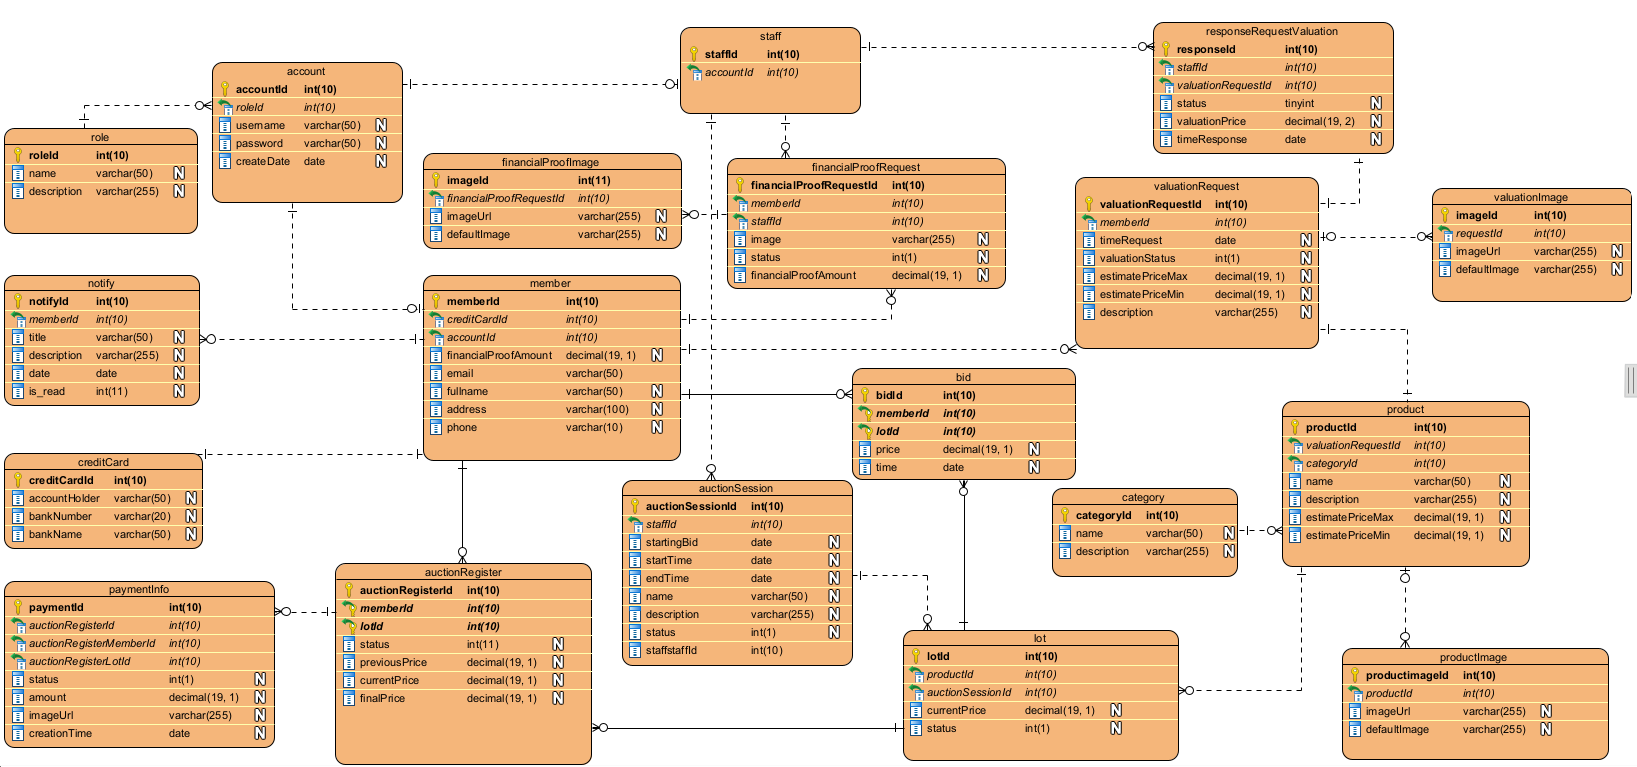
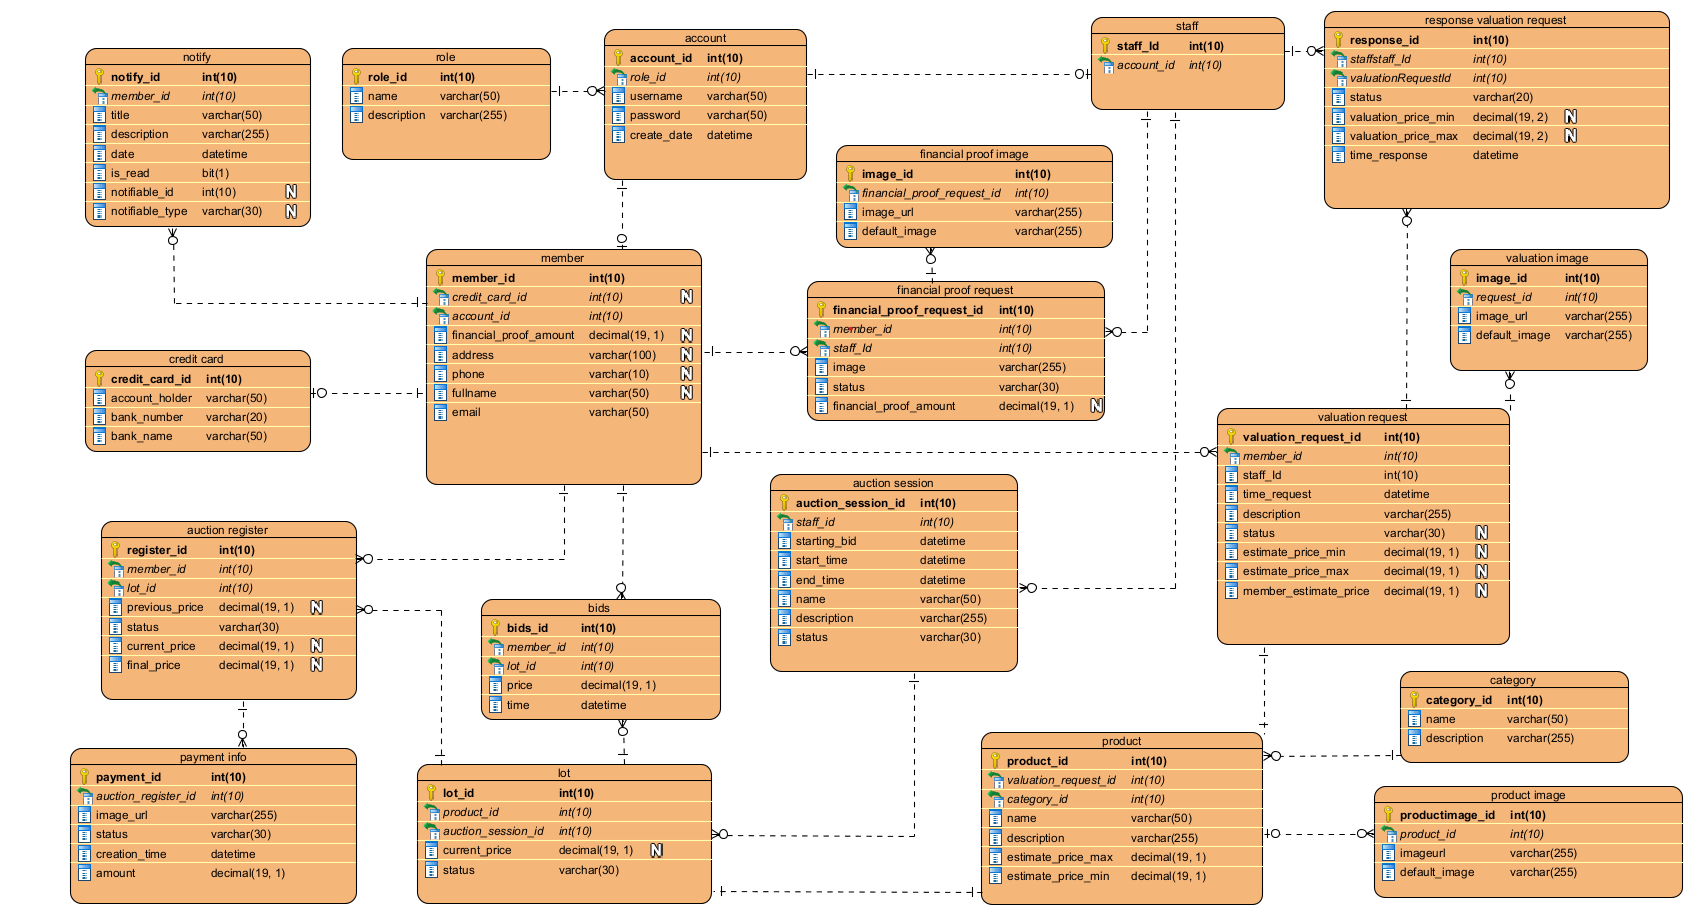
Update database, datetime to localdatetime

diff --git a/JewelryAuctionSystem/src/main/java/com/fpt/edu/service/ValuationRequestService.java b/JewelryAuctionSystem/src/main/java/com/fpt/edu/service/ValuationRequestService.java
@@ -6,19 +6,14 @@ import com.fpt.edu.repository.*;
 import com.fpt.edu.status.ValuationRequestStatus;
 import com.fpt.edu.mapper.ValuationRequestMapper;
 import com.fpt.edu.dto.ValuationRequestDTO;
-import com.fpt.edu.mapper.ResponseValuationRequestMapper;
 import com.fpt.edu.status.ResponseValuationRequestStatus;
 import lombok.RequiredArgsConstructor;
 import org.springframework.stereotype.Service;
 import org.springframework.web.multipart.MultipartFile;
 
 import java.math.BigDecimal;
-import java.time.LocalDate;
+import java.time.LocalDateTime;
 import java.util.*;
-import java.util.HashMap;
-import java.util.List;
-import java.util.Map;
-import java.util.Set;
 
 @Service
 @RequiredArgsConstructor
@@ -27,12 +22,12 @@ public class ValuationRequestService implements IValuationRequestService{
     private final IValuationRequestRepository iValuationRequestRepository;
     private final IMemberRepository iMemberRepository;
     private final IValuationImageRepository iValuationImageRepository;
-    private final IResponseRequestValuationRepository iResponseRequestValuationRepository;
+//    private final IResponseRequestValuationRepository iResponseRequestValuationRepository;
     private final IStaffRepository iStaffRepository;
     private final INotifyRepository iNotifyRepository;
 
     private final ValuationRequestMapper valuationRequestMapper;
-    private final ResponseValuationRequestMapper responseValuationRequestMapper;
+//    private final ResponseValuationRequestMapper responseValuationRequestMapper;
 
     private final CloudinaryService cloudinaryService;
     private final NotifyMapper NotifyMapper;
@@ -51,7 +46,7 @@ public class ValuationRequestService implements IValuationRequestService{
         System.out.println("Member: " + member);
         valuationRequest.setMember(member);
         valuationRequest.setDescription(description);
-        valuationRequest.setTimeRequest(LocalDate.now());
+        valuationRequest.setTimeRequest(LocalDateTime.now());
         valuationRequest.setEstimatePriceMin(estimateMin);
         valuationRequest.setEstimatePriceMax(estimateMax);
         valuationRequest.setValuationStatus(ValuationRequestStatus.REQUESTED);
@@ -101,7 +96,7 @@ public class ValuationRequestService implements IValuationRequestService{
         ValuationRequest valuationRequest = iValuationRequestRepository.getReferenceById(id);
         valuationRequest.setValuationStatus(ValuationRequestStatus.PRODUCT_RECEIVED);
         Member member = iMemberRepository.getReferenceById(valuationRequestMapper.mapToValuationRequestDTO(valuationRequest).getMemberId());
-        LocalDate createDate = LocalDate.now();
+        LocalDateTime createDate = LocalDateTime.now();
         iNotifyService.insertNotify(member, productReceivedTitle(valuationRequest), productReceivedMessage(valuationRequest));
         ValuationRequestDTO dto = valuationRequestMapper.mapToValuationRequestDTO(iValuationRequestRepository.save(valuationRequest));
         return dto;
@@ -287,7 +282,7 @@ public class ValuationRequestService implements IValuationRequestService{
         notify.setTitle(notifyFinalValuationDTO.getTitle());
         notify.setDescription(notifyFinalValuationDTO.getDescriptionOfProduct());
         notify.setMember(valuationRequest.getMember());
-        notify.setDate(LocalDate.now());
+        notify.setDate(LocalDateTime.now());
         iNotifyRepository.save(notify);
         Map<String, String> status = new HashMap<>();
         status.put("Status:", "Notify has been sent to member");

diff --git a/JewelryAuctionSystem/src/main/java/com/fpt/edu/mapper/ValuationRequestMapper.java b/JewelryAuctionSystem/src/main/java/com/fpt/edu/mapper/ValuationRequestMapper.java
@@ -78,21 +78,21 @@ public class ValuationRequestMapper {
     public List<ValuationRequestDetailDTO> mapToValuationRequestDetailDTOList(List<ValuationRequest> valuationRequests){
         return valuationRequests.stream().map(this::mapToValuationRequestDetailDTO).toList();
     }
-    // ham nay khong thay dung nay be Dai oi
-    public ValuationRequest mapToValuationRequest(ValuationRequestDTO valuationRequestDTO){
-        return new ValuationRequest(
-                valuationRequestDTO.getId(),
-                iMemberRepository.getReferenceById(valuationRequestDTO.getMemberId()),
-                valuationRequestDTO.getTimeRequest(),
-                valuationRequestDTO.getValuationStatus(),
-                valuationRequestDTO.getEstimatePriceMax(),
-                valuationRequestDTO.getEstimatePriceMin(),
-                valuationRequestDTO.getDescription(),
-                iProductRepository.getReferenceById(valuationRequestDTO.getProductId()),
-//                iResponseRequestValuationRepository.getReferenceById(valuationRequestDTO.getResponseRequestValuationsId()),
-                valuationImageMapper.mapIdToValuationImageList(valuationRequestDTO.getValuationImages())
-        );
-    }
+//    // ham nay khong thay dung nay be Dai oi
+//    public ValuationRequest mapToValuationRequest(ValuationRequestDTO valuationRequestDTO){
+//        return new ValuationRequest(
+//                valuationRequestDTO.getId(),
+//                iMemberRepository.getReferenceById(valuationRequestDTO.getMemberId()),
+//                valuationRequestDTO.getTimeRequest(),
+//                valuationRequestDTO.getValuationStatus(),
+//                valuationRequestDTO.getEstimatePriceMax(),
+//                valuationRequestDTO.getEstimatePriceMin(),
+//                valuationRequestDTO.getDescription(),
+//                iProductRepository.getReferenceById(valuationRequestDTO.getProductId()),
+////                iResponseRequestValuationRepository.getReferenceById(valuationRequestDTO.getResponseRequestValuationsId()),
+//                valuationImageMapper.mapIdToValuationImageList(valuationRequestDTO.getValuationImages())
+//        );
+//    }
 
 
     public List<ValuationRequestDTO> mapToValuationRequestDTOList(List<ValuationRequest> valuationRequests){

diff --git a/JewelryAuctionSystem/src/main/java/com/fpt/edu/controller/AuctionSessionController.java b/JewelryAuctionSystem/src/main/java/com/fpt/edu/controller/AuctionSessionController.java
@@ -10,6 +10,7 @@ import org.springframework.web.multipart.MultipartFile;
 
 import java.io.IOException;
 import java.time.LocalDate;
+import java.time.LocalDateTime;
 import java.util.List;
 
 @CrossOrigin("*")
@@ -23,9 +24,9 @@ public class AuctionSessionController {
     @PostMapping("/create-session")
     public ResponseEntity<AuctionSession> createAuctionSession(@RequestParam("name") String name,
                                                                @RequestParam("description") String description,
-                                                               @RequestParam("startTime") LocalDate startDate,
-                                                               @RequestParam("endTime") LocalDate endDate,
-                                                               @RequestParam("startingBid") LocalDate startingBid,
+                                                               @RequestParam("startTime") LocalDateTime startDate,
+                                                               @RequestParam("endTime") LocalDateTime endDate,
+                                                               @RequestParam("startingBid") LocalDateTime startingBid,
                                                                @RequestParam("staffId") int staffId,
                                                                @RequestParam("image") MultipartFile image) throws IOException {
     AuctionSession auction = auctionSessionService.createSession(name, description, startDate, endDate, startingBid, staffId, image);

diff --git a/JewelryAuctionSystem/src/main/java/com/fpt/edu/service/ResponseValuationRequestService.java b/JewelryAuctionSystem/src/main/java/com/fpt/edu/service/ResponseValuationRequestService.java
@@ -10,7 +10,6 @@ import com.fpt.edu.mapper.ResponseValuationRequestMapper;
 import com.fpt.edu.mapper.ValuationRequestMapper;
 import com.fpt.edu.repository.*;
 import com.fpt.edu.entity.*;
-import com.fpt.edu.mapper.ResponseValuationRequestMapper;
 import com.fpt.edu.repository.IResponseRequestValuationRepository;
 import com.fpt.edu.repository.IValuationRequestRepository;
 import com.fpt.edu.status.LotStatus;
@@ -20,11 +19,10 @@ import lombok.RequiredArgsConstructor;
 import org.springframework.stereotype.Service;
 
 import java.math.BigDecimal;
-import java.time.LocalDate;
+import java.time.LocalDateTime;
 import java.util.HashMap;
 import java.util.List;
 import java.util.Map;
-
 
 @Service
 @RequiredArgsConstructor
@@ -55,7 +53,7 @@ public class ResponseValuationRequestService implements IResponseRequestValuatio
         responseRequestValuation.setResponseValuationRequestStatus(status);
         responseRequestValuation.setStaff(staff);
         responseRequestValuation.setValuationRequest(valuationRequest);
-        responseRequestValuation.setTimeResponse(LocalDate.now());
+        responseRequestValuation.setTimeResponse(LocalDateTime.now());
         return responseValuationRequestMapper.toResponseValuationRequestDTO(iResponseRequestValuationRepository.save(responseRequestValuation));
     }
 

diff --git a/JewelryAuctionSystem/src/main/java/com/fpt/edu/entity/ValuationRequest.java b/JewelryAuctionSystem/src/main/java/com/fpt/edu/entity/ValuationRequest.java
@@ -5,7 +5,7 @@ import jakarta.persistence.*;
 import lombok.*;
 
 import java.math.BigDecimal;
-import java.time.LocalDate;
+import java.time.LocalDateTime;
 import java.util.LinkedHashSet;
 import java.util.Set;
 
@@ -26,17 +26,20 @@ public class ValuationRequest {
     private Member member;
 
     @Column(name = "time_request")
-    private LocalDate timeRequest;
+    private LocalDateTime timeRequest;
 
-    @Column(name = "valuation_status")
+    @Column(name = "status")
     @Enumerated(EnumType.STRING)
     private ValuationRequestStatus valuationStatus;
 
-    @Column(name = "estimate_price_max", precision = 19, scale = 1)
+    @Column(name = "estimate_price_max", precision = 19, scale = 1, nullable = true)
     private BigDecimal estimatePriceMax;
 
-    @Column(name = "estimate_price_min", precision = 19, scale = 1)
+    @Column(name = "estimate_price_min", precision = 19, scale = 1, nullable = true)
     private BigDecimal estimatePriceMin;
+
+    @Column(name = "member_estimate_price", precision = 19, scale = 1, nullable = true)
+    private BigDecimal memberEstimatePrice;
 
     @Column(name = "description")
     private String description;

diff --git a/JewelryAuctionSystem/src/main/java/com/fpt/edu/service/IAuctionSessionService.java b/JewelryAuctionSystem/src/main/java/com/fpt/edu/service/IAuctionSessionService.java
@@ -2,19 +2,17 @@ package com.fpt.edu.service;
 
 import com.fpt.edu.dto.AuctionSessionDTO;
 import com.fpt.edu.entity.AuctionSession;
-import com.fpt.edu.status.AuctionRegisterStatus;
-import com.fpt.edu.status.AuctionSessionStatus;
 import org.springframework.web.multipart.MultipartFile;
 
 import java.io.IOException;
-import java.time.LocalDate;
+import java.time.LocalDateTime;
 import java.util.List;
 
 public interface IAuctionSessionService {
 
     List<AuctionSession> getAllAuctionSession();
 
-    AuctionSession createSession(String name, String description, LocalDate startDate,LocalDate endDate, LocalDate startingBid, int staffId, MultipartFile image) throws IOException;
+    AuctionSession createSession(String name, String description, LocalDateTime startDate, LocalDateTime endDate, LocalDateTime startingBid, int staffId, MultipartFile image) throws IOException;
 
     List<AuctionSession> getAllAuctionSessionByCreatedStatus();
 

diff --git a/JewelryAuctionSystem/src/main/java/com/fpt/edu/service/AuctionSessionService.java b/JewelryAuctionSystem/src/main/java/com/fpt/edu/service/AuctionSessionService.java
@@ -17,7 +17,7 @@ import org.springframework.stereotype.Service;
 import org.springframework.web.multipart.MultipartFile;
 
 import java.io.IOException;
-import java.time.LocalDate;
+import java.time.LocalDateTime;
 import java.util.List;
 import java.util.Map;
 
@@ -36,7 +36,7 @@ public class AuctionSessionService implements IAuctionSessionService{
     }
 
     @Override
-    public AuctionSession createSession(String name, String description, LocalDate startDate,LocalDate endDate, LocalDate startingBid, int staffId, MultipartFile image) throws IOException {
+    public AuctionSession createSession(String name, String description, LocalDateTime startDate, LocalDateTime endDate, LocalDateTime startingBid, int staffId, MultipartFile image) throws IOException {
         Staff staff = staffRepository.findById(staffId).get();
         AuctionSession auctionSession = new AuctionSession();
         auctionSession.setName(name);

diff --git a/JewelryAuctionSystem/src/main/java/com/fpt/edu/dto/ResponseRequestValuationDTO.java b/JewelryAuctionSystem/src/main/java/com/fpt/edu/dto/ResponseRequestValuationDTO.java
@@ -1,15 +1,12 @@
 package com.fpt.edu.dto;
 
-
-import com.fpt.edu.entity.Staff;
-import com.fpt.edu.entity.ValuationRequest;
 import com.fpt.edu.status.ResponseValuationRequestStatus;
 import lombok.AllArgsConstructor;
 import lombok.Data;
 import lombok.NoArgsConstructor;
 
 import java.math.BigDecimal;
-import java.time.LocalDate;
+import java.time.LocalDateTime;
 
 @Data
 @NoArgsConstructor
@@ -21,7 +18,7 @@ public class ResponseRequestValuationDTO {
 //    private BigDecimal valuationPrice;
     private BigDecimal valuationPriceMin;
     private BigDecimal valuationPriceMax;
-    private LocalDate timeResponse;
+    private LocalDateTime timeResponse;
     private Integer staffId;
     private Integer valuationRequestId;
 }

diff --git a/JewelryAuctionSystem/src/main/java/com/fpt/edu/entity/AuctionSession.java b/JewelryAuctionSystem/src/main/java/com/fpt/edu/entity/AuctionSession.java
@@ -4,7 +4,7 @@ import com.fpt.edu.status.AuctionSessionStatus;
 import jakarta.persistence.*;
 import lombok.*;
 
-import java.time.LocalDate;
+import java.time.LocalDateTime;
 import java.util.LinkedHashSet;
 import java.util.Set;
 
@@ -25,13 +25,13 @@ public class AuctionSession {
     private Staff staff;
 
     @Column(name = "starting_bid")
-    private LocalDate startingBid;
+    private LocalDateTime startingBid;
 
     @Column(name = "start_time")
-    private LocalDate startTime;
+    private LocalDateTime startTime;
 
     @Column(name = "end_time")
-    private LocalDate endTime;
+    private LocalDateTime endTime;
 
     @Column(name = "name", length = 50)
     private String name;

diff --git a/JewelryAuctionSystem/src/main/java/com/fpt/edu/dto/ViewValuationRequestDTO.java b/JewelryAuctionSystem/src/main/java/com/fpt/edu/dto/ViewValuationRequestDTO.java
@@ -1,14 +1,11 @@
 package com.fpt.edu.dto;
 
-import com.fpt.edu.entity.Product;
 import com.fpt.edu.entity.ValuationImage;
 import com.fpt.edu.status.ValuationRequestStatus;
 import lombok.*;
 
 import java.math.BigDecimal;
-import java.time.LocalDate;
-import java.util.LinkedHashSet;
-import java.util.List;
+import java.time.LocalDateTime;
 import java.util.Set;
 
 @Getter
@@ -20,7 +17,7 @@ public class ViewValuationRequestDTO {
 
     private int id;
     private Integer memberId;
-    private LocalDate timeRequest;
+    private LocalDateTime timeRequest;
     private ValuationRequestStatus valuationStatus;
     private BigDecimal estimatePriceMax;
     private BigDecimal estimatePriceMin;

diff --git a/JewelryAuctionSystem/src/main/java/com/fpt/edu/entity/Notify.java b/JewelryAuctionSystem/src/main/java/com/fpt/edu/entity/Notify.java
@@ -1,9 +1,10 @@
 package com.fpt.edu.entity;
 
+import com.fpt.edu.status.NotifyType;
 import jakarta.persistence.*;
 import lombok.*;
 
-import java.time.LocalDate;
+import java.time.LocalDateTime;
 
 @Data
 @NoArgsConstructor
@@ -28,6 +29,16 @@ public class Notify {
     private String description;
 
     @Column(name = "date")
-    private LocalDate date;
+    private LocalDateTime date;
+
+    @Column(name = "is_read")
+    private Boolean isRead;
+
+    @Column(name = "notifiable_id", nullable = true)
+    private Integer notifiableId;
+
+    @Column(name = "notifiable_type", nullable = true)
+    @Enumerated(EnumType.STRING)
+    private NotifyType notifiableType;
 
 }

diff --git a/JewelryAuctionSystem/src/main/java/com/fpt/edu/dto/AuctionSessionDTO.java b/JewelryAuctionSystem/src/main/java/com/fpt/edu/dto/AuctionSessionDTO.java
@@ -6,9 +6,7 @@ import lombok.Getter;
 import lombok.NoArgsConstructor;
 import lombok.Setter;
 
-import java.time.LocalDate;
-import java.util.LinkedHashSet;
-import java.util.Set;
+import java.time.LocalDateTime;
 
 @Getter
 @Setter
@@ -17,9 +15,9 @@ import java.util.Set;
 public class AuctionSessionDTO {
     private Integer id;
     private Integer staffId;
-    private LocalDate startingBid;
-    private LocalDate startTime;
-    private LocalDate endTime;
+    private LocalDateTime startingBid;
+    private LocalDateTime startTime;
+    private LocalDateTime endTime;
     private String name;
     private String description;
     private AuctionSessionStatus status;
